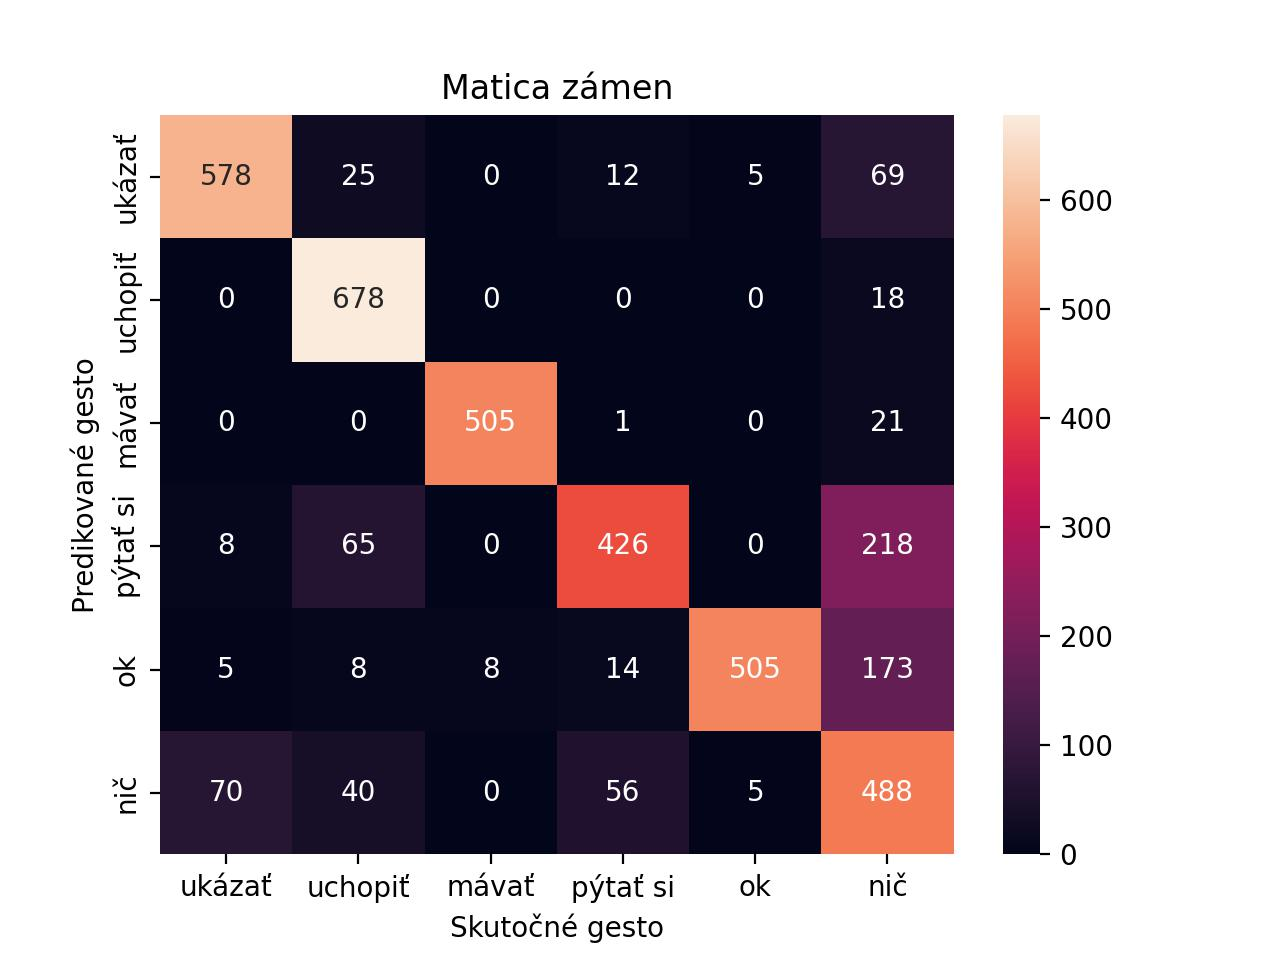
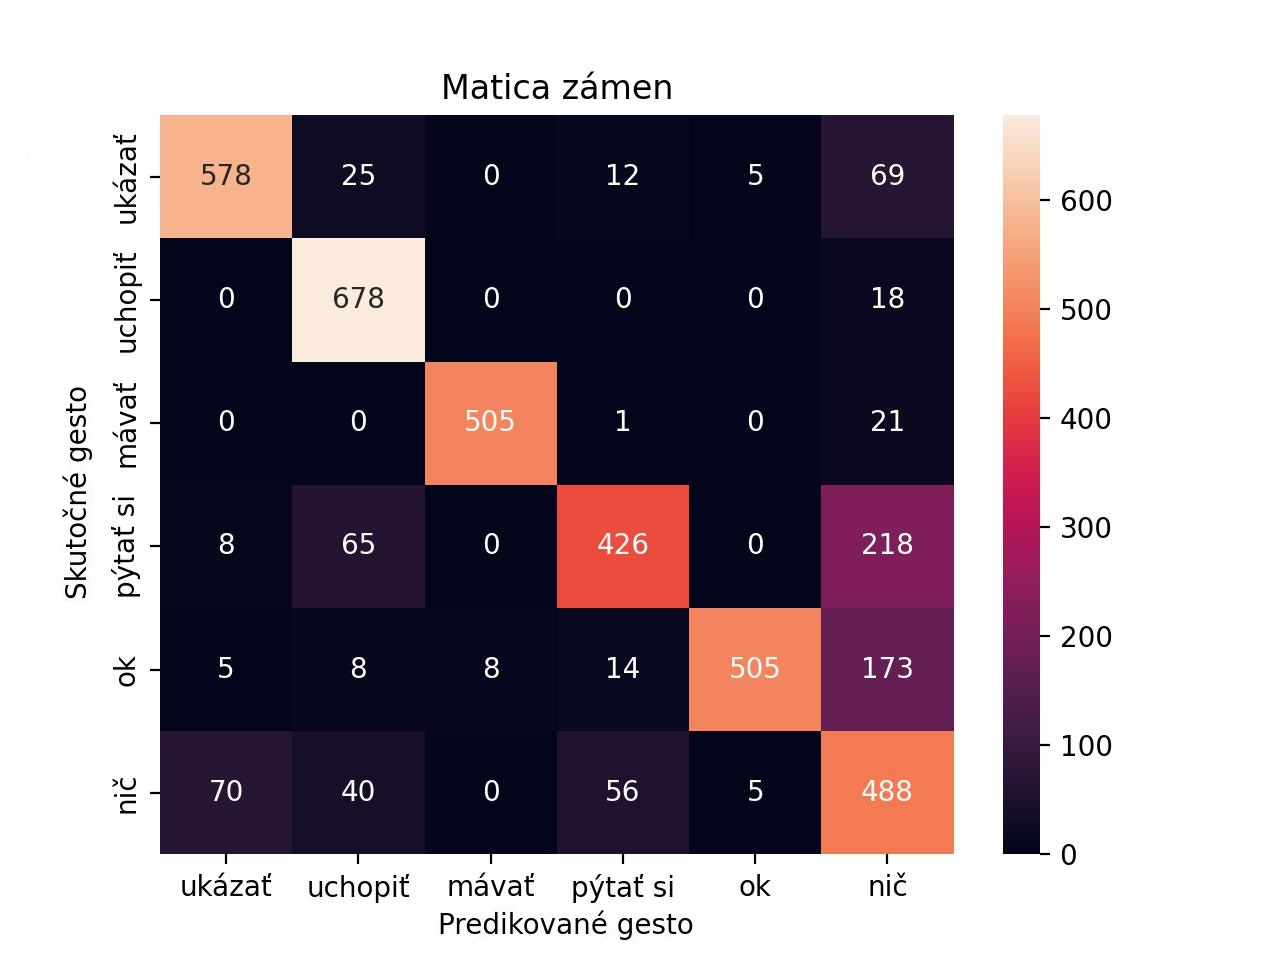
Correct confusion matrix

Changed region(s): [[0.0312, 0.375, 0.0938, 0.625], [0.3438, 0.9375, 0.5312, 1.0]]

diff --git a/results_visualization.py b/results_visualization.py
@@ -128,8 +128,8 @@ def visualize_confusion_matrix(cm):
     sns.heatmap(cm, annot=True, fmt='d', xticklabels=labels, yticklabels=labels)
 
     # add labels and title
-    plt.xlabel('Skutočné gesto')
-    plt.ylabel('Predikované gesto')
+    plt.xlabel('Predikované gesto')
+    plt.ylabel('Skutočné gesto')
     plt.title('Matica zámen')
 
     graph_direc = "graphs"
